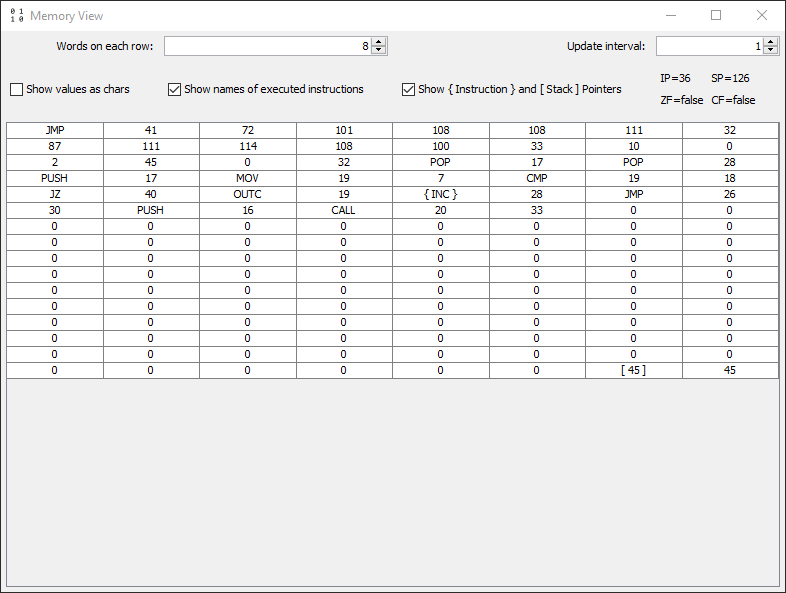
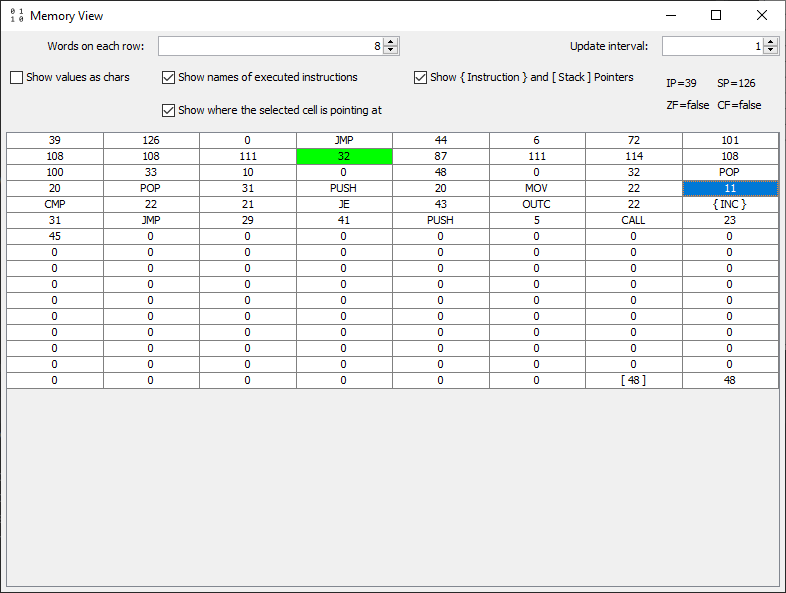
Added feature to see where the currently selected cell is pointing at in MemoryView
Added classes: MemoryTable, MemoryCellRenderer
Added feature to see where the currently selected cell is pointing at in MemoryView

diff --git a/src/main/java/io/github/hds/pemu/app/MemoryView.java b/src/main/java/io/github/hds/pemu/app/MemoryView.java
@@ -1,5 +1,6 @@
 package io.github.hds.pemu.app;
 
+import io.github.hds.pemu.app.memorytable.MemoryTable;
 import io.github.hds.pemu.config.ConfigEvent;
 import io.github.hds.pemu.config.ConfigManager;
 import io.github.hds.pemu.config.IConfigurable;
@@ -13,7 +14,6 @@ import io.github.hds.pemu.utils.*;
 import org.jetbrains.annotations.NotNull;
 
 import javax.swing.*;
-import javax.swing.table.DefaultTableCellRenderer;
 import javax.swing.table.DefaultTableModel;
 import java.awt.*;
 import java.awt.event.*;
@@ -27,13 +27,14 @@ public class MemoryView extends JFrame implements ITranslatable, IConfigurable {
     private final Application app;
 
     private final Timer UPDATE_TIMER;
-    private final JTable MEMORY_TABLE;
+    private final MemoryTable MEMORY_TABLE;
 
     private final JLabel COLS_LABEL;
     private final JLabel UPDATE_INTERVAL_LABEL;
 
     private final JSpinner COLS_SPINNER;
     private final JSpinner UPDATE_INTERVAL_SPINNER;
+    private final JCheckBox SHOW_SELECTED_CELL_POINTER;
     private final JCheckBox SHOW_AS_CHAR;
     private final JCheckBox SHOW_HISTORY;
     private final JCheckBox SHOW_POINTERS;
@@ -75,59 +76,16 @@ public class MemoryView extends JFrame implements ITranslatable, IConfigurable {
         SHOW_POINTERS = new JCheckBox();
         addComponent(SHOW_POINTERS, 2, 1);
 
+        SHOW_SELECTED_CELL_POINTER = new JCheckBox();
+        addComponent(SHOW_SELECTED_CELL_POINTER, 1, 2);
+
         REG_VALUES = new JLabel();
-        addComponent(REG_VALUES, 3, 1);
+        addComponent(REG_VALUES, 3, 1, 1,  2);
 
-        // Adding non-editable table
-        MEMORY_TABLE = new JTable() {
-            @Override
-            public boolean isCellEditable(int row, int column) {
-                return false;
-            }
-        };
+        MEMORY_TABLE = new MemoryTable();
 
-        // We want to clear the selection if another component is focused
-        //  Or if this Frame loses focus which makes the table lose focus
-        MEMORY_TABLE.addFocusListener(new FocusAdapter() {
-            @Override
-            public void focusLost(FocusEvent e) {
-                MEMORY_TABLE.clearSelection();
-            }
-        });
-
-        // And we also want to clear the selection if we click outside the table
-        //  In an empty spot of the Frame, I'm not sure if this is the best way of doing it
-        final boolean[] isOutsideTable = { false };
-        MEMORY_TABLE.addMouseListener(new MouseAdapter() {
-            @Override
-            public void mouseEntered(MouseEvent e) {
-                isOutsideTable[0] = false;
-            }
-
-            @Override
-            public void mouseExited(MouseEvent e) {
-                isOutsideTable[0] = true;
-            }
-        });
-
-        this.addMouseListener(new MouseAdapter() {
-            @Override
-            public void mouseClicked(MouseEvent e) {
-                if (isOutsideTable[0]) MEMORY_TABLE.clearSelection();
-            }
-        });
-
-        // Removing table header and adding auto-resize
-        MEMORY_TABLE.setTableHeader(null);
-        MEMORY_TABLE.setAutoResizeMode(JTable.AUTO_RESIZE_ALL_COLUMNS);
-        // Setting renderer for strings
-        DefaultTableCellRenderer tableCellRenderer = (DefaultTableCellRenderer) MEMORY_TABLE.getDefaultRenderer(String.class);
-        tableCellRenderer.setHorizontalAlignment(DefaultTableCellRenderer.CENTER);
-        // Setting selection mode
-        MEMORY_TABLE.setSelectionMode(ListSelectionModel.MULTIPLE_INTERVAL_SELECTION);
-        MEMORY_TABLE.setCellSelectionEnabled(true);
         // Adding table to Frame
-        addComponent(new JScrollPane(MEMORY_TABLE), 0, 2, 4, 1, 1.0f, 1.0f);
+        addComponent(new JScrollPane(MEMORY_TABLE), 0, 3, 4, 1, 1.0f, 1.0f);
 
         UPDATE_TIMER = new Timer(0, this::updateFrame);
         updateFrame(null);
@@ -141,7 +99,7 @@ public class MemoryView extends JFrame implements ITranslatable, IConfigurable {
         translation.translateComponent("memoryView.updateIntervalLabel", UPDATE_INTERVAL_LABEL);
         translation.translateComponent("memoryView.showAsChar", SHOW_AS_CHAR);
         translation.translateComponent("memoryView.showHistory", SHOW_HISTORY);
-        translation.translateComponent("memoryView.showPointers", SHOW_POINTERS);
+        translation.translateComponent("memoryView.showSelectedCellPointer", SHOW_SELECTED_CELL_POINTER);
         SHOW_POINTERS.setText(StringUtils.format(translation.getOrDefault("memoryView.showPointers"), "{", "}", "[", "]"));
     }
 
@@ -171,6 +129,8 @@ public class MemoryView extends JFrame implements ITranslatable, IConfigurable {
     }
 
     public void updateFrame(ActionEvent e) {
+        // TODO: When you've got some time to look closely at this code, do it
+        //        I think there are some things you can improve
         UPDATE_TIMER.setDelay((int) ((double) UPDATE_INTERVAL_SPINNER.getValue() * 1000.0f));
 
         if (!isVisible()) return;
@@ -209,12 +169,24 @@ public class MemoryView extends JFrame implements ITranslatable, IConfigurable {
         if (model.getRowCount() != rows)
             model.setRowCount(rows);
 
+        int selectedRow = MEMORY_TABLE.getSelectedRow();
+        int selectedCol = MEMORY_TABLE.getSelectedColumn();
+
+        boolean enablePointedCellFeature = SHOW_SELECTED_CELL_POINTER.isSelected();
+        MEMORY_TABLE.setPointedCellEnabled(enablePointedCellFeature);
+        if (enablePointedCellFeature)
+            MEMORY_TABLE.setPointedCell();
+
         for (int i = 0; i < memSize; i++) {
             int x = i % cols;
             int y = i / cols;
 
+            int valueAtCurrentIndex = processor.getMemory().getValueAt(i);
+            if (enablePointedCellFeature && y == selectedRow && x == selectedCol)
+                MEMORY_TABLE.setPointedCell(valueAtCurrentIndex / cols, valueAtCurrentIndex % cols);
+
             String value = SHOW_AS_CHAR.isSelected() ?
-                    String.valueOf((char) processor.getMemory().getValueAt(i)) : String.valueOf(processor.getMemory().getValueAt(i));
+                    String.valueOf((char) valueAtCurrentIndex) : String.valueOf(valueAtCurrentIndex);
 
             if (SHOW_HISTORY.isSelected() && history != null && history.containsKey(i))
                 value = history.get(i);
@@ -233,6 +205,7 @@ public class MemoryView extends JFrame implements ITranslatable, IConfigurable {
         SHOW_AS_CHAR.setSelected(e.CONFIG.get(Boolean.class, "memoryView.showAsChar"));
         SHOW_HISTORY.setSelected(e.CONFIG.get(Boolean.class, "memoryView.showHistory"));
         SHOW_POINTERS.setSelected(e.CONFIG.get(Boolean.class, "memoryView.showPointers"));
+        SHOW_SELECTED_CELL_POINTER.setSelected(e.CONFIG.get(Boolean.class, "memoryView.showSelectedCellPointer"));
     }
 
     @Override
@@ -242,6 +215,7 @@ public class MemoryView extends JFrame implements ITranslatable, IConfigurable {
         e.CONFIG.put("memoryView.showAsChar", SHOW_AS_CHAR.isSelected());
         e.CONFIG.put("memoryView.showHistory", SHOW_HISTORY.isSelected());
         e.CONFIG.put("memoryView.showPointers", SHOW_POINTERS.isSelected());
+        e.CONFIG.put("memoryView.showSelectedCellPointer", SHOW_SELECTED_CELL_POINTER.isSelected());
     }
 
     @Override
@@ -251,5 +225,6 @@ public class MemoryView extends JFrame implements ITranslatable, IConfigurable {
         e.CONFIG.put("memoryView.showAsChar", false);
         e.CONFIG.put("memoryView.showHistory", false);
         e.CONFIG.put("memoryView.showPointers", false);
+        e.CONFIG.put("memoryView.showSelectedCellPointer", false);
     }
 }

diff --git a/src/main/java/io/github/hds/pemu/app/memorytable/MemoryTable.java b/src/main/java/io/github/hds/pemu/app/memorytable/MemoryTable.java
@@ -1,0 +1,133 @@
+package io.github.hds.pemu.app.memorytable;
+
+import org.jetbrains.annotations.NotNull;
+import org.jetbrains.annotations.Nullable;
+
+import javax.swing.*;
+import javax.swing.table.TableColumnModel;
+import javax.swing.table.TableModel;
+import java.awt.*;
+import java.awt.event.FocusAdapter;
+import java.awt.event.FocusEvent;
+import java.awt.event.MouseAdapter;
+import java.awt.event.MouseEvent;
+import java.util.Vector;
+
+public class MemoryTable extends JTable {
+
+    private boolean pointedCellEnabled = false;
+    private Integer[] pointedCell = null;
+    private Color pointedCellForeground = Color.BLACK;
+    private Color pointedCellBackground = Color.GREEN;
+
+    public MemoryTable() {
+        super();
+
+        // We want to clear the selection if another component is focused
+        //  Or if the Frame loses focus which makes the table lose focus
+        addFocusListener(new FocusAdapter() {
+            @Override
+            public void focusLost(FocusEvent e) {
+                clearSelection();
+            }
+        });
+
+        // And we also want to clear the selection if we click outside the table
+        //  In an empty spot of the Frame, I'm not sure if this is the best way of doing it
+        final boolean[] isOutsideTable = { false };
+        addMouseListener(new MouseAdapter() {
+            @Override
+            public void mouseEntered(MouseEvent e) {
+                isOutsideTable[0] = false;
+            }
+
+            @Override
+            public void mouseExited(MouseEvent e) {
+                isOutsideTable[0] = true;
+            }
+        });
+
+        addMouseListener(new MouseAdapter() {
+            @Override
+            public void mouseClicked(MouseEvent e) {
+                if (isOutsideTable[0]) clearSelection();
+            }
+        });
+
+        // Removing table header and adding auto-resize
+        setTableHeader(null);
+        setAutoResizeMode(JTable.AUTO_RESIZE_ALL_COLUMNS);
+        // Setting renderer for Objects
+        MemoryCellRenderer cellRenderer = new MemoryCellRenderer();
+        cellRenderer.setHorizontalAlignment(SwingConstants.CENTER);
+        setDefaultRenderer(Object.class, cellRenderer);
+        // Setting selection mode
+        setSelectionMode(ListSelectionModel.MULTIPLE_INTERVAL_SELECTION);
+        setCellSelectionEnabled(true);
+    }
+
+    private MemoryTable(TableModel dm) {
+        super(dm);
+    }
+
+    private MemoryTable(TableModel dm, TableColumnModel cm) {
+        super(dm, cm);
+    }
+
+    private MemoryTable(TableModel dm, TableColumnModel cm, ListSelectionModel sm) {
+        super(dm, cm, sm);
+    }
+
+    private MemoryTable(int numRows, int numColumns) {
+        super(numRows, numColumns);
+    }
+
+    private MemoryTable(Vector rowData, Vector columnNames) {
+        super(rowData, columnNames);
+    }
+
+    private MemoryTable(@NotNull Object[][] rowData, @NotNull Object[] columnNames) {
+        super(rowData, columnNames);
+    }
+
+    @Override
+    public boolean isCellEditable(int row, int column) {
+        return false;
+    }
+
+    public void setPointedCellForeground(Color color) {
+        pointedCellForeground = color;
+    }
+
+    public @NotNull Color getPointedCellForeground() {
+        return pointedCellForeground;
+    }
+
+    public void setPointedCellBackground(Color color) {
+        pointedCellBackground = color;
+    }
+
+    public @NotNull Color getPointedCellBackground() {
+        return pointedCellBackground;
+    }
+
+    public void setPointedCell(int row, int column) {
+        pointedCell = new Integer[] { row, column };
+    }
+
+    public void setPointedCell() {
+        pointedCell = null;
+    }
+
+    public @Nullable Integer[] getPointedCell() {
+        return pointedCellEnabled ? pointedCell : null;
+    }
+
+    public void setPointedCellEnabled(boolean value) {
+        pointedCellEnabled = value;
+    }
+
+    public boolean isPointedCellEnabled() {
+        return pointedCellEnabled;
+    }
+}

diff --git a/src/main/java/io/github/hds/pemu/app/memorytable/MemoryCellRenderer.java b/src/main/java/io/github/hds/pemu/app/memorytable/MemoryCellRenderer.java
@@ -1,0 +1,30 @@
+package io.github.hds.pemu.app.memorytable;
+
+import javax.swing.*;
+import javax.swing.table.DefaultTableCellRenderer;
+import java.awt.*;
+
+public class MemoryCellRenderer extends DefaultTableCellRenderer {
+
+    @Override
+    public Component getTableCellRendererComponent(JTable table, Object value, boolean isSelected, boolean hasFocus, int row, int column) {
+        super.getTableCellRendererComponent(table, value, isSelected, hasFocus, row, column);
+
+        if (table instanceof MemoryTable) {
+            MemoryTable memoryTable = (MemoryTable) table;
+            Integer[] pointedCell = memoryTable.getPointedCell();
+            if (pointedCell != null) {
+                if (row == pointedCell[0] && column == pointedCell[1]) {
+                    this.setForeground(memoryTable.getPointedCellForeground());
+                    this.setBackground(memoryTable.getPointedCellBackground());
+                } else {
+                    this.setForeground(isSelected ? table.getSelectionForeground() : table.getForeground());
+                    this.setBackground(isSelected ? table.getSelectionBackground() : table.getBackground());
+                }
+            }
+        }
+
+        return this;
+    }
+
+}

diff --git a/src/main/java/io/github/hds/pemu/app/Application.java b/src/main/java/io/github/hds/pemu/app/Application.java
@@ -23,7 +23,7 @@ import java.util.function.Function;
 public class Application extends JFrame implements KeyListener, ITranslatable, IConfigurable {
 
     public static final String APP_TITLE = "PEMU";
-    public static final String APP_VERSION = "1.4.4";
+    public static final String APP_VERSION = "1.5.0";
     public static final int FRAME_WIDTH = 800;
     public static final int FRAME_HEIGHT = 600;
     public static final int FRAME_ICON_SIZE = 32;

diff --git a/README.md b/README.md
@@ -18,13 +18,13 @@ On Windows: `%USERPROFILE%/PEMU.config`
 
 There are four main ways to run this project:
  1. By downloading the precompiled jar file and running it.
- 2. By compiling it yourself! Download the latest version from the repo and run `gradlew build`,
-    the compiled file should be located in `./build/libs/PEMU-version.jar`.
- 3. By opening the project using **IntelliJ IDEA** and building the **project's artifact**.
- 4. By opening the project using **IntelliJ IDEA** and creating a new **Run Config**:
+ 2. By opening the project using **IntelliJ IDEA** and building the **project's artifact**.
+ 3. By opening the project using **IntelliJ IDEA** and creating a new **Run Config**:
     - Java Version: `1.8`
     - Class Path: `Processor_Emulator.main`
     - Main Class: `io.github.hds.pemu.Main`
+ 4. (**NOTE: This isn't really tested or supported**) By compiling it yourself! Download the latest version from the repo
+    and run `gradlew build`, the compiled file should be located in `./build/libs/PEMU-version.jar`.
 
 ## Examples:
 
